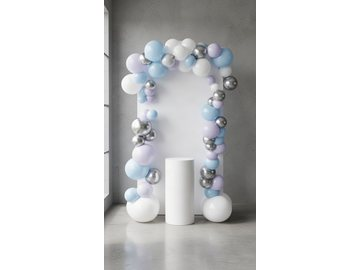
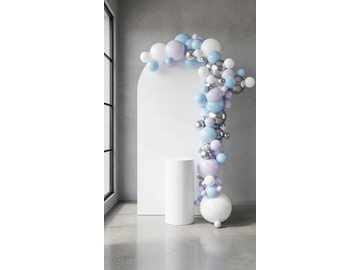
Elsa-reference garland composition, true 90cm marquee 1
Where each of these is controlled, checked before changing anything:
  balloon composition   lib/generateStructureSilhouette.ts, drawThickOrganicMainGarland
                        + the single-arch dispatch that calls it
  garland wording       lib/renderPrompts/buildLayoutRefEditPrompt.ts, archGarlandExtra
  prop dimensions       lib/config.ts (ARCH_SIZES), layoutDimensions.ts (PLINTH_DIMS),
                        NUMBER_H_CM in the guide
  prop scaling          lib/calculateExactLayout.ts — one px/cm for the whole scene
  foreground layout     the plinth loop and the marquee block in the guide

1. GARLAND — rebuilt to the reference composition. The crown used to stop on the
   shoulder, well short of the apex, so the top of the board was bare and the
   garland read as a side trim; and on Full/Premium the whole mass was mirrored
   onto the left edge, which with a crown on both shoulders is the near-complete
   rectangular border that was rejected. Now: a light cluster starting past the
   apex at upper middle, thickening (bigger balloons AND more depth) into the top
   outer corner, then the existing bottom-heavy cascade down the right edge. The
   left mirror is gone — the extra coverage the paid tiers sell is spent on a
   second pass down the same right-hand cascade instead.

   Size mixing: a filler pass now runs over the WHOLE garland rather than only
   the floor mound, sampling positions next to balloons already placed so the
[…]

Changed region(s): [[0.275, 0.0, 0.7333, 1.0], [0.55, 0.8889, 0.6111, 0.9481], [0.4278, 0.8889, 0.4583, 1.0]]

diff --git a/lib/generateStructureSilhouette.ts b/lib/generateStructureSilhouette.ts
@@ -1415,6 +1415,13 @@ export function generateStructureSilhouette(
           // asked for the same volume built from 12" and 5" balloons instead.
           // Single Arch keeps them; its look was approved with them in.
           giantAnchors = true,
+          // 2026-09-09: Single Arch composition, from the customer's Elsa
+          // reference. The crown normally stops on the shoulder, well short of
+          // the apex, so the top of the board is bare and the garland reads as a
+          // side trim. With this on it starts PAST the apex (upper middle) and
+          // thickens toward the top outer corner before handing over to the
+          // vertical climb: top cluster -> heavy top corner -> right cascade.
+          crownOverTop = false,
         ): { count: number; minR: number; maxR: number; lanes: number } => {
           const dir       = side === "left" ? -1 : 1;
           const panelEdge = p.cx + dir * (p.pw / 2);
@@ -1667,28 +1674,42 @@ export function generateStructureSilhouette(
           const rArc  = p.pw / 2;
           const arcCx = p.cx;
           const arcCy = p.apexY + rArc;
-          const angFrom = side === "left" ? 178 : 2;
+          const angFrom = crownOverTop
+            // Starts past the apex, on the far side of the top, so the mass
+            // begins upper-middle exactly as the reference does.
+            ? (side === "left" ? 298 : -118)
+            : (side === "left" ? 178 : 2);
           // Tight mode stops well short of the apex (2026-09-03): walked all
           // the way to the top, the last few shrinking balloons stood up
           // above the arch as a thin horn, and now that the edit model
           // re-creates the garland from the guide it painted that horn as a
           // pointed tip. The crown is a rounded cluster of large balloons on
           // the shoulder — the reference Single Arch look — not a tail.
-          const angTo   = tight
-            ? (side === "left" ? 232 : -52)
-            : (side === "left" ? 268 : -88);
+          const angTo   = crownOverTop
+            ? (side === "left" ? 180 : 0)
+            : tight
+              ? (side === "left" ? 232 : -52)
+              : (side === "left" ? 268 : -88);
           // Walked along the arc the same way the climb is walked up the edge,
           // for the same reason — the old version cycled 3 depth lanes and a
           // 3-entry size pattern, which drew a beaded trim over the shoulder.
           let crownAng = angFrom;
           let crownGuard = 0;
           const angStep = (angTo - angFrom) > 0 ? 1 : -1;
-          while (Math.abs(crownAng - angFrom) < Math.abs(angTo - angFrom) && crownGuard++ < 40) {
+          while (Math.abs(crownAng - angFrom) < Math.abs(angTo - angFrom) && crownGuard++ < (crownOverTop ? 90 : 40)) {
             const t     = Math.abs(crownAng - angFrom) / Math.abs(angTo - angFrom);
-            const rBall = tight
-              ? sizeR[pickSize(0.15 + 0.35 * t)]        // large cluster, not a shrinking trim
-              : sizeR[pickSize(0.55 + 0.45 * t)];
-            const rad   = rArc + (rnd() * 1.5 - 0.4) * rMed;
+            const rBall = crownOverTop
+              // Light where it meets the apex, heaviest at the outer corner:
+              // pickSize takes 0 = biggest, so this walks DOWN as t rises.
+              ? sizeR[pickSize(Math.max(0, 0.90 - 0.80 * t))]
+              : tight
+                ? sizeR[pickSize(0.15 + 0.35 * t)]        // large cluster, not a shrinking trim
+                : sizeR[pickSize(0.55 + 0.45 * t)];
+            // Depth also grows toward the corner, so the band is a thin run over
+            // the top and a deep cluster where it turns down the side.
+            const rad   = crownOverTop
+              ? rArc + (rnd() * (0.6 + 2.2 * t) - 0.4) * rMed
+              : rArc + (rnd() * 1.5 - 0.4) * rMed;
             const a     = (crownAng * Math.PI) / 180;
             put(arcCx + rad * Math.cos(a), arcCy + rad * Math.sin(a), rBall);
             // Advance along the arc by roughly this balloon's own footprint.
@@ -1707,6 +1728,24 @@ export function generateStructureSilhouette(
                 p.floorY - up,
                 (i % 3 === 0 ? rSmall : rMed) * (0.85 + baseRnd() * 0.35),
                 );
+            }
+          }
+          // 2026-09-09: and a filler pass over the WHOLE garland, not just the
+          // floor. The customer asked for many small balloons and some very
+          // small ones tucked into the gaps — the size mix was reading as too
+          // even because the only filler ran along the base. Candidates are
+          // sampled next to balloons already placed, so the fillers land in the
+          // band instead of scattering into the wall; `put` rejects anything
+          // that would sit too deep inside a neighbour.
+          if (crownOverTop) {
+            const anchors = [...placed];
+            for (let i = 0; i < 46; i++) {
+              const q = anchors[Math.floor(baseRnd() * anchors.length)];
+              if (!q) break;
+              const ang = baseRnd() * Math.PI * 2;
+              const rr  = (baseRnd() < 0.45 ? rSmall * 0.62 : rSmall) * (0.85 + baseRnd() * 0.5);
+              const d2  = q.r + rr * (0.55 + baseRnd() * 0.5);
+              put(q.x + Math.cos(ang) * d2, q.y + Math.sin(ang) * d2, rr);
             }
           }
           return { count: n, minR: Math.round(minR), maxR: Math.round(maxR), lanes: 4 };
@@ -2435,12 +2474,19 @@ export function generateStructureSilhouette(
           // — the customer asked for the previous behaviour back by name. The
           // giant balls they crossed out on Double Arch are a Double Arch
           // problem; Single Arch was approved WITH them.
-          drawThickOrganicMainGarland(archPanels[0], "right", 0, true, true);
-          // Full / Premium mirror the mass onto the left edge too, so the
-          // customer sees the extra coverage they paid for. Half stays
-          // one-sided (that asymmetry is the look Half Garland sells).
+          // 2026-09-09: rebuilt to the customer's Elsa reference — top cluster,
+          // heavy top-right corner, vertical cascade down the right side.
+          //
+          // The left mirror is GONE. Full/Premium used to repeat the whole mass
+          // on the left edge, and with a crown on both shoulders that reads as a
+          // near-complete rectangular border round the board — the exact thing
+          // the customer rejected. The extra coverage those tiers sell is now
+          // spent on the right, where the reference puts it: a second pass at a
+          // different seed thickens the same cascade instead of opening a second
+          // one opposite it.
+          drawThickOrganicMainGarland(archPanels[0], "right", 0, true, true, true, true);
           if (isFullerTier) {
-            drawThickOrganicMainGarland(archPanels[0], "left", 62, true, true);
+            drawThickOrganicMainGarland(archPanels[0], "right", 137, true, true, true, true);
           }
         } else {
           // Multi-panel fallback: right-side vertical garland from top-right corner to floor
@@ -2743,11 +2789,65 @@ export function generateStructureSilhouette(
       // FIRST and the plinth layer last, so a digit standing next to a solid
       // plinth marker was being painted over by it — which is one more reason
       // the render kept fusing the two.
-      plinthLayer.push(
-        `<text x="${(x + digitW / 2).toFixed(1)}" y="${(y + digitH * 0.92).toFixed(1)}" text-anchor="middle" ` +
-        `font-family="Arial Black, Arial, sans-serif" font-size="${digitH.toFixed(0)}" ` +
-        `fill="#FFFFFF" stroke="rgba(45,45,45,0.92)" stroke-width="4" stroke-linejoin="round">${numDigits[d]}</text>`,
-      );
+      //
+      // 2026-09-09, two corrections:
+      //
+      // HEIGHT. font-size is the EM box, not the glyph. A digit's cap height in
+      // Arial Black is about 0.72 em, so setting font-size to the 90cm height
+      // drew a numeral roughly 65cm tall — it has never actually been 90cm
+      // against the plinth beside it. The font is now scaled so the CAP HEIGHT
+      // is the 90cm figure.
+      //
+      // SHAPE. A "1" set in a typeface is a thin stroke with a small flag, and
+      // the render kept turning it into something curved and shapeless. A real
+      // marquee 1 is a wide vertical body, an angled head and a flat base bar
+      // it stands on, so that one is drawn as an explicit path with its bulbs
+      // in it. Every other digit stays type, which renders correctly.
+      const glyph = numDigits[d];
+      if (glyph === "1") {
+        const bw = digitW;
+        const px = (fr: number) => x + bw * fr;
+        const py = (fr: number) => y + digitH * fr;
+        const d1 = [
+          `M ${px(0.62).toFixed(1)},${py(0).toFixed(1)}`,
+          `L ${px(0.62).toFixed(1)},${py(0.86).toFixed(1)}`,
+          `L ${px(0.98).toFixed(1)},${py(0.86).toFixed(1)}`,
+          `L ${px(0.98).toFixed(1)},${py(1).toFixed(1)}`,
+          `L ${px(0.02).toFixed(1)},${py(1).toFixed(1)}`,
+          `L ${px(0.02).toFixed(1)},${py(0.86).toFixed(1)}`,
+          `L ${px(0.38).toFixed(1)},${py(0.86).toFixed(1)}`,
+          `L ${px(0.38).toFixed(1)},${py(0.26).toFixed(1)}`,
+          `L ${px(0.08).toFixed(1)},${py(0.40).toFixed(1)}`,
+          `L ${px(0.08).toFixed(1)},${py(0.16).toFixed(1)}`,
+          "Z",
+        ].join(" ");
+        plinthLayer.push(
+          `<path d="${d1}" fill="#FFFFFF" stroke="rgba(45,45,45,0.92)" stroke-width="4" stroke-linejoin="round"/>`,
+        );
+        // Warm bulbs set into the face: down the body, then along the base bar.
+        const bulbR = digitW * 0.055;
+        for (let b = 0; b < 7; b++) {
+          plinthLayer.push(
+            `<circle cx="${px(0.50).toFixed(1)}" cy="${py(0.09 + b * 0.115).toFixed(1)}" ` +
+            `r="${bulbR.toFixed(1)}" fill="#FFF3D6" stroke="rgba(120,110,90,0.55)" stroke-width="1"/>`,
+          );
+        }
+        for (const fr of [0.18, 0.50, 0.82]) {
+          plinthLayer.push(
+            `<circle cx="${px(fr).toFixed(1)}" cy="${py(0.93).toFixed(1)}" ` +
+            `r="${bulbR.toFixed(1)}" fill="#FFF3D6" stroke="rgba(120,110,90,0.55)" stroke-width="1"/>`,
+          );
+        }
+      } else {
+        // 0.72 em is the cap height of Arial Black; dividing by it makes the
+        // painted numeral the height we actually mean.
+        const fontPx = digitH / 0.72;
+        plinthLayer.push(
+          `<text x="${(x + digitW / 2).toFixed(1)}" y="${(y + digitH).toFixed(1)}" text-anchor="middle" ` +
+          `font-family="Arial Black, Arial, sans-serif" font-size="${fontPx.toFixed(0)}" ` +
+          `fill="#FFFFFF" stroke="rgba(45,45,45,0.92)" stroke-width="4" stroke-linejoin="round">${glyph}</text>`,
+        );
+      }
     }
   }
 

diff --git a/lib/renderPrompts/buildLayoutRefEditPrompt.ts b/lib/renderPrompts/buildLayoutRefEditPrompt.ts
@@ -902,9 +902,19 @@ export function buildLayoutRefEditPrompt(
   const frontNumDigits = String(sceneModel.numberLight?.value ?? "").replace(/[^0-9]/g, "").slice(0, 2);
   const frontNumberLightLine =
     sceneModel.numberLight?.enabled && frontNumDigits.length > 0
-      ? `A 90cm modern matte white marquee number ${frontNumDigits}, with warm white bulbs recessed into its ` +
+      ? `A 90cm modern matte white marquee number ${frontNumDigits}, with warm round bulbs set into its ` +
         `flat face, stands on the floor in front of the backdrop, FACING THE CAMERA SQUARE-ON — its front ` +
-        `face flat to the viewer, not turned, not angled, not in three-quarter view` +
+        `face flat to the viewer, not turned, not angled, not in three-quarter view. ` +
+        // 2026-09-09: the height is stated against the object beside it. "90cm"
+        // alone is a number the model cannot see; the plinth is 60-90cm and IS
+        // in frame, so the comparison is what fixes the scale.
+        `It is about the same height as the pedestal column beside it — a floor prop, not a full-height ` +
+        `sign, and clearly shorter than the backdrop board. ` +
+        (frontNumDigits.includes("1")
+          ? `The 1 is a proper freestanding marquee numeral: one straight wide vertical body, a short angled ` +
+            `head at the top left, and a flat rectangular base it stands on. It is not thin, not curved, ` +
+            `not slanted and not a stylised shape. `
+          : ``) +
         (hasStandeesInScene
           // 2026-09-08: on the LEFT beside the character on every setup —
           // "yenisini eskisinin oldugu tarafa koyalim" — EXCEPT the balloon
@@ -985,7 +995,25 @@ export function buildLayoutRefEditPrompt(
     ? `each arch's own OUTER side edge — the left arch's left edge and the right arch's right edge`
     : `the right outer edge`;
 
-  const archGarlandExtra = hasArchPanelInPrompt
+  // 2026-09-09: a lone arch gets its own composition wording, taken from the
+  // customer's reference photo. The shared text below describes a garland that
+  // starts at the top OUTER CORNER and runs down the edge; the reference starts
+  // higher and further in — upper middle of the board — thickens into the top
+  // right corner, and only then turns down the side. Double Arch and the other
+  // arch layouts keep the shared wording, which they were approved with.
+  const isLoneArchScene = hasArchPanelInPrompt && panelCount === 1;
+  const archGarlandExtra = isLoneArchScene
+    ? ` Premium organic balloon garland, asymmetric and hand-styled. It begins as a lighter cluster at the ` +
+      `UPPER MIDDLE of the board, builds into its heaviest, densest mass at the TOP RIGHT CORNER, then ` +
+      `cascades straight down the RIGHT-HAND EDGE to a connected cluster on the floor at the bottom right. ` +
+      `The left side and the whole middle of the board stay clean and empty — no garland on the left edge, ` +
+      `no balloons across the face, and NOT a frame or border round the board. ` +
+      `The balloon sizes are strongly mixed and never in a repeating sequence: a few large statement ` +
+      `balloons, more medium ones, many small fillers and a scattering of very small balloons pushed into ` +
+      `the gaps. Balloons overlap and cluster; the outline is irregular and organic, never evenly spaced ` +
+      `and never a uniform arc. A few balloons break past the edge of the board. ` +
+      `Not a thin single-file chain. `
+    : hasArchPanelInPrompt
     ? ` Premium organic balloon garland with large, medium, and small balloons nested together ` +
       `in lush clustered bunches, attached ONLY to ONE OUTER SIDE of the arch — ${outerEdgePhrase} — ` +
       `and nowhere else on the structure. ` +

diff --git a/app/api/generate-controlled-render/route.ts b/app/api/generate-controlled-render/route.ts
@@ -159,7 +159,7 @@ function isAuthOrBillingError(message: string | null): boolean {
 // process (sufficient for a single-instance/dev deployment — not a
 // distributed cache). Bump RENDER_CACHE_VERSION whenever a prompt/negative
 // change should invalidate previously cached (now-stale) renders.
-const RENDER_CACHE_VERSION = "single-arch-palette-number-floor-v82";
+const RENDER_CACHE_VERSION = "elsa-garland-marquee-one-v83";
 
 interface RenderCacheEntry {
   imageUrl: string;
